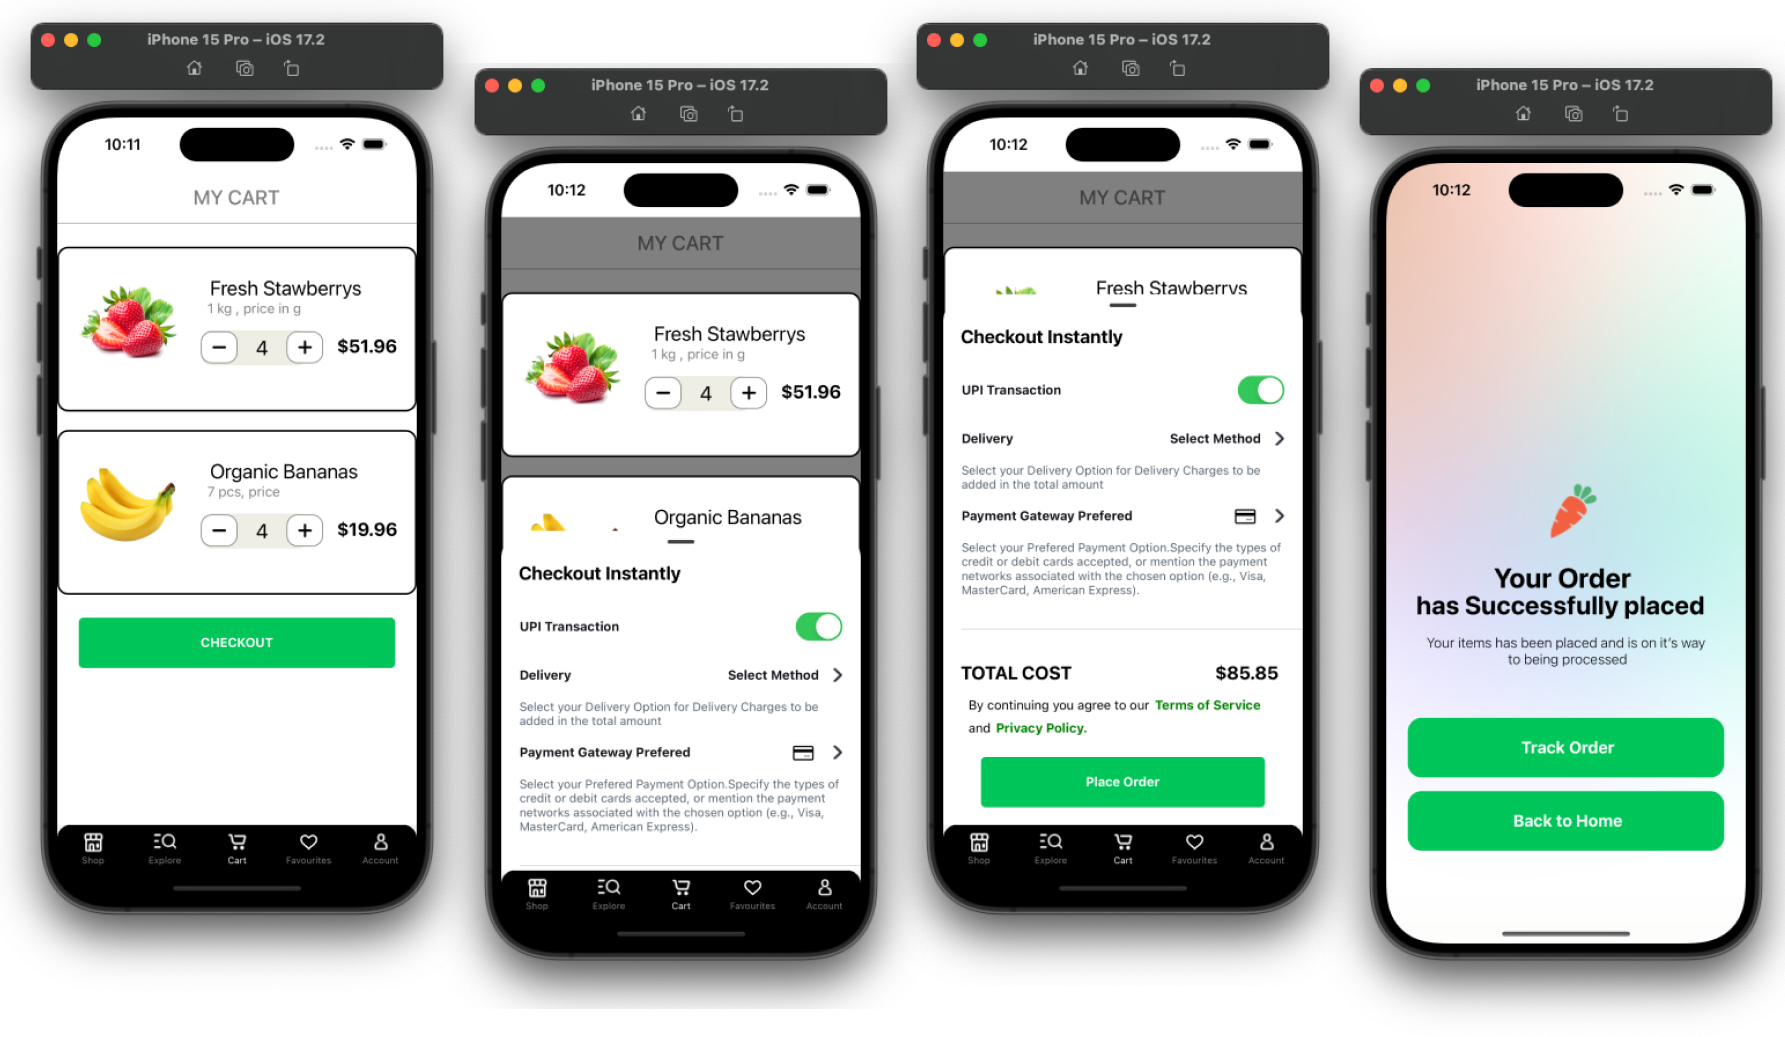
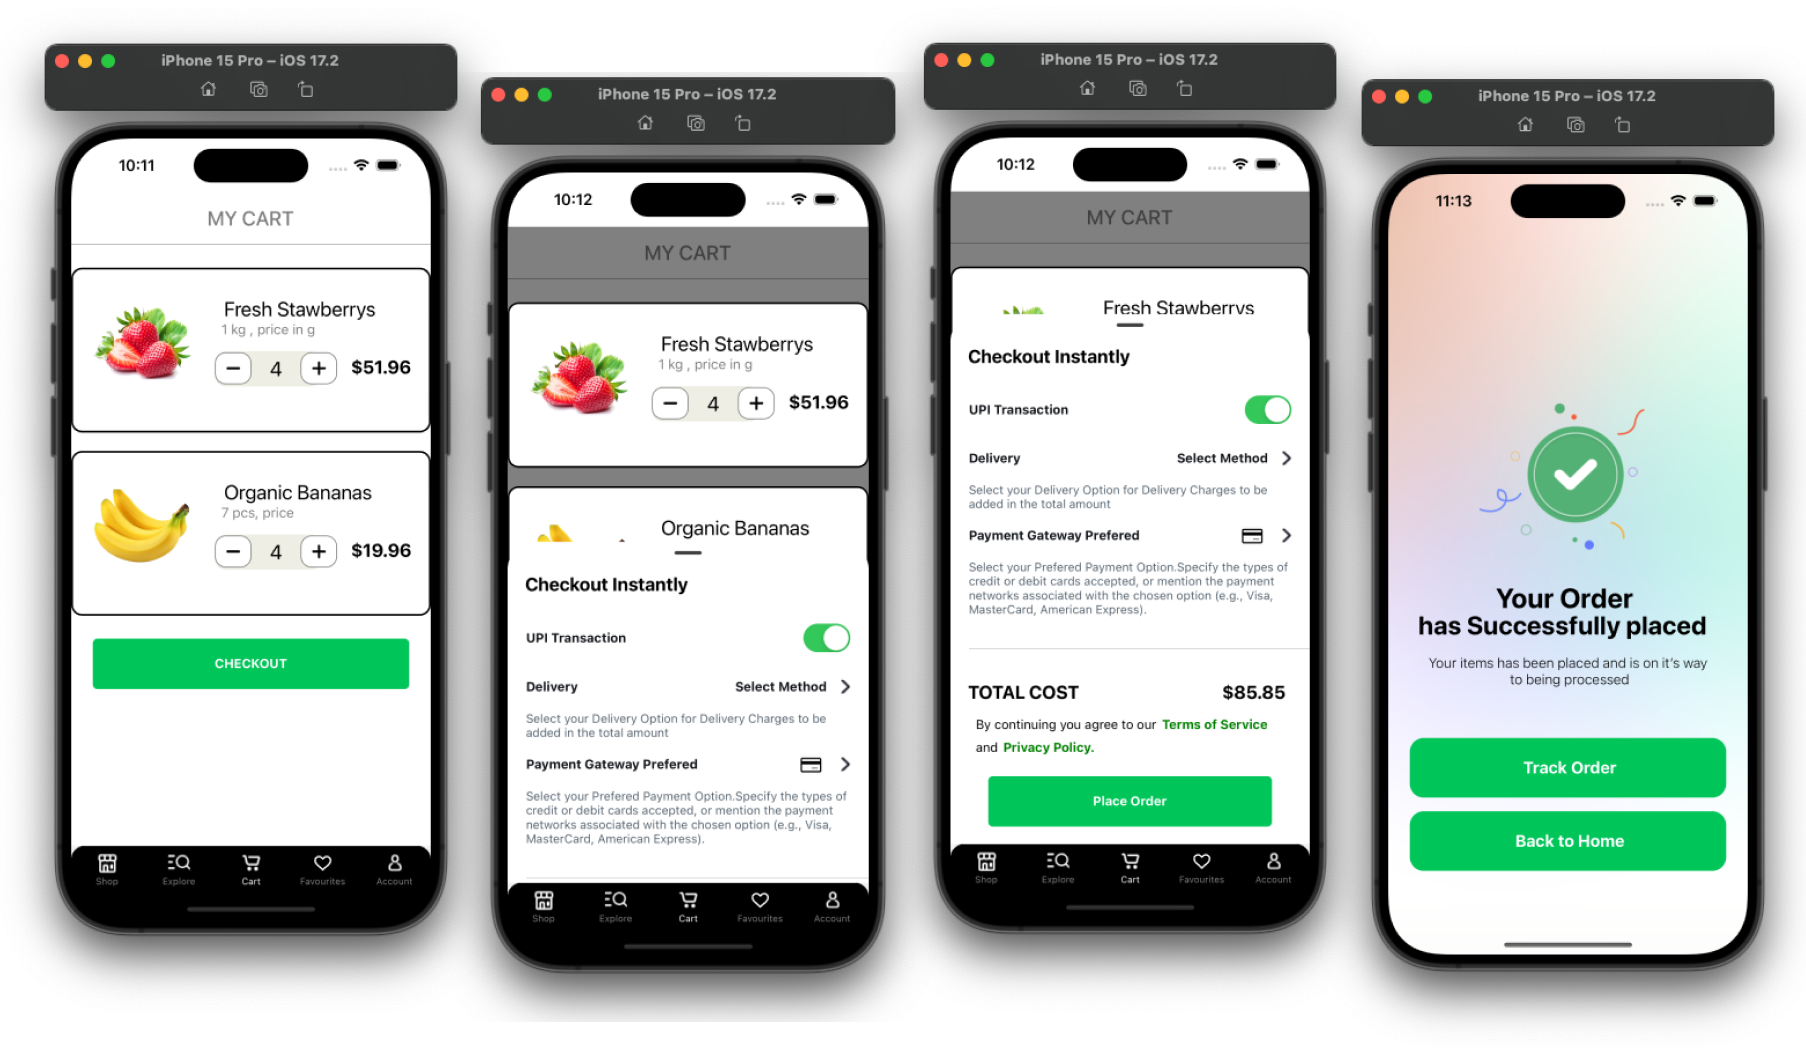
updated

Changed region(s): [[0.0, 0.0, 1.0, 0.9566]]

diff --git a/screens/Successpage.js b/screens/Successpage.js
@@ -29,8 +29,8 @@ const Onboard = () => {
         <View style={styles.container}>
             <ImageBackground blurRadius={8} source={require('../assets/blurbg.jpeg')}
                 style={styles.backgroundImage}>
-                    <View style={{marginTop:350,marginBottom:5,marginHorizontal:180}}>
-                        <Image source={require('../assets/originallogo.png')} style={{ height:60, width: 50}} />
+                    <View style={{marginTop:250,marginBottom:15,marginHorizontal:100}}>
+                        <Image source={require('../assets/success.png')} style={{ height:160, width: 180}} />
                     </View>
 
                 <View style={{ marginTop: 20, alignItems: 'center', alignSelf: 'center' }}>
